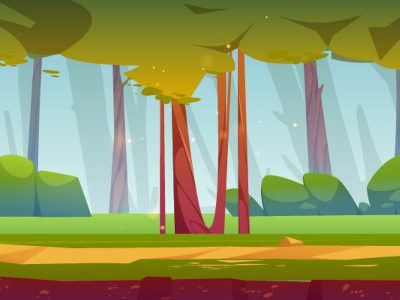
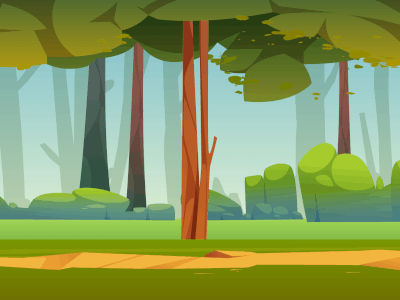
feat: assets

diff --git a/src/engine/backdrop.ts b/src/engine/backdrop.ts
@@ -31,14 +31,14 @@ const layersData: Record<TSceneName, LayersData[]> = {
     { src: 'mountains.layer3', dx: -1, scale: 0.37 },
   ],
   cliff: [
-    { src: 'cliff.layer1', dx: -0.1, scale: 0.86, fromTop: true },
-    { src: 'cliff.layer2', dx: -0.25, scale: 0.91, fromTop: true },
-    { src: 'cliff.layer3', dx: -1, scale: 0.125 },
+    { src: 'cliff.layer1', dx: -0.1 },
+    { src: 'cliff.layer2', dx: -0.25 },
+    { src: 'cliff.layer3', dx: -1 },
   ],
   autumn: [
-    { src: 'autumn.layer1', dx: 0, scale: 0.9, fromTop: true },
-    { src: 'autumn.layer2', dx: -0.25, scale: 1, fromTop: true },
-    { src: 'autumn.layer3', dx: -1, scale: 0.299 },
+    { src: 'autumn.layer1', dx: 0 },
+    { src: 'autumn.layer2', dx: -0.5 },
+    { src: 'autumn.layer3', dx: -1 },
   ],
   desert: [
     { src: 'desert.layer1', dx: 0, fromTop: true },
@@ -76,12 +76,6 @@ export class Backdrop {
   }
 
   public setup = ({ sceneName, multiplayer }: { sceneName: TSceneName, multiplayer?: 'top' | 'bottom' }) => {
-    // TODO: Development time patch
-    if (this.resource.progress < 100) {
-      setTimeout(this.setup, 500)
-      return
-    }
-
     this.layersArr = []
     layersData[sceneName].forEach(data => {
       const img = getValue(this.resource.sprite, data.src) as HTMLImageElement

diff --git a/src/ui/icons.ts b/src/ui/icons.ts
@@ -25,6 +25,8 @@ export const iconSrc: Record<string, string> = {
   fps: './icons/fps.svg',
   globe: './icons/globe.svg',
   gamepad: './icons/gamepad.svg',
+  pointer: './icons/mouse.svg',
+  keyboard: './icons/keyboard.svg',
   en: './flag/en.svg',
   ru: './flag/ru.svg',
   de: './flag/de.svg',
